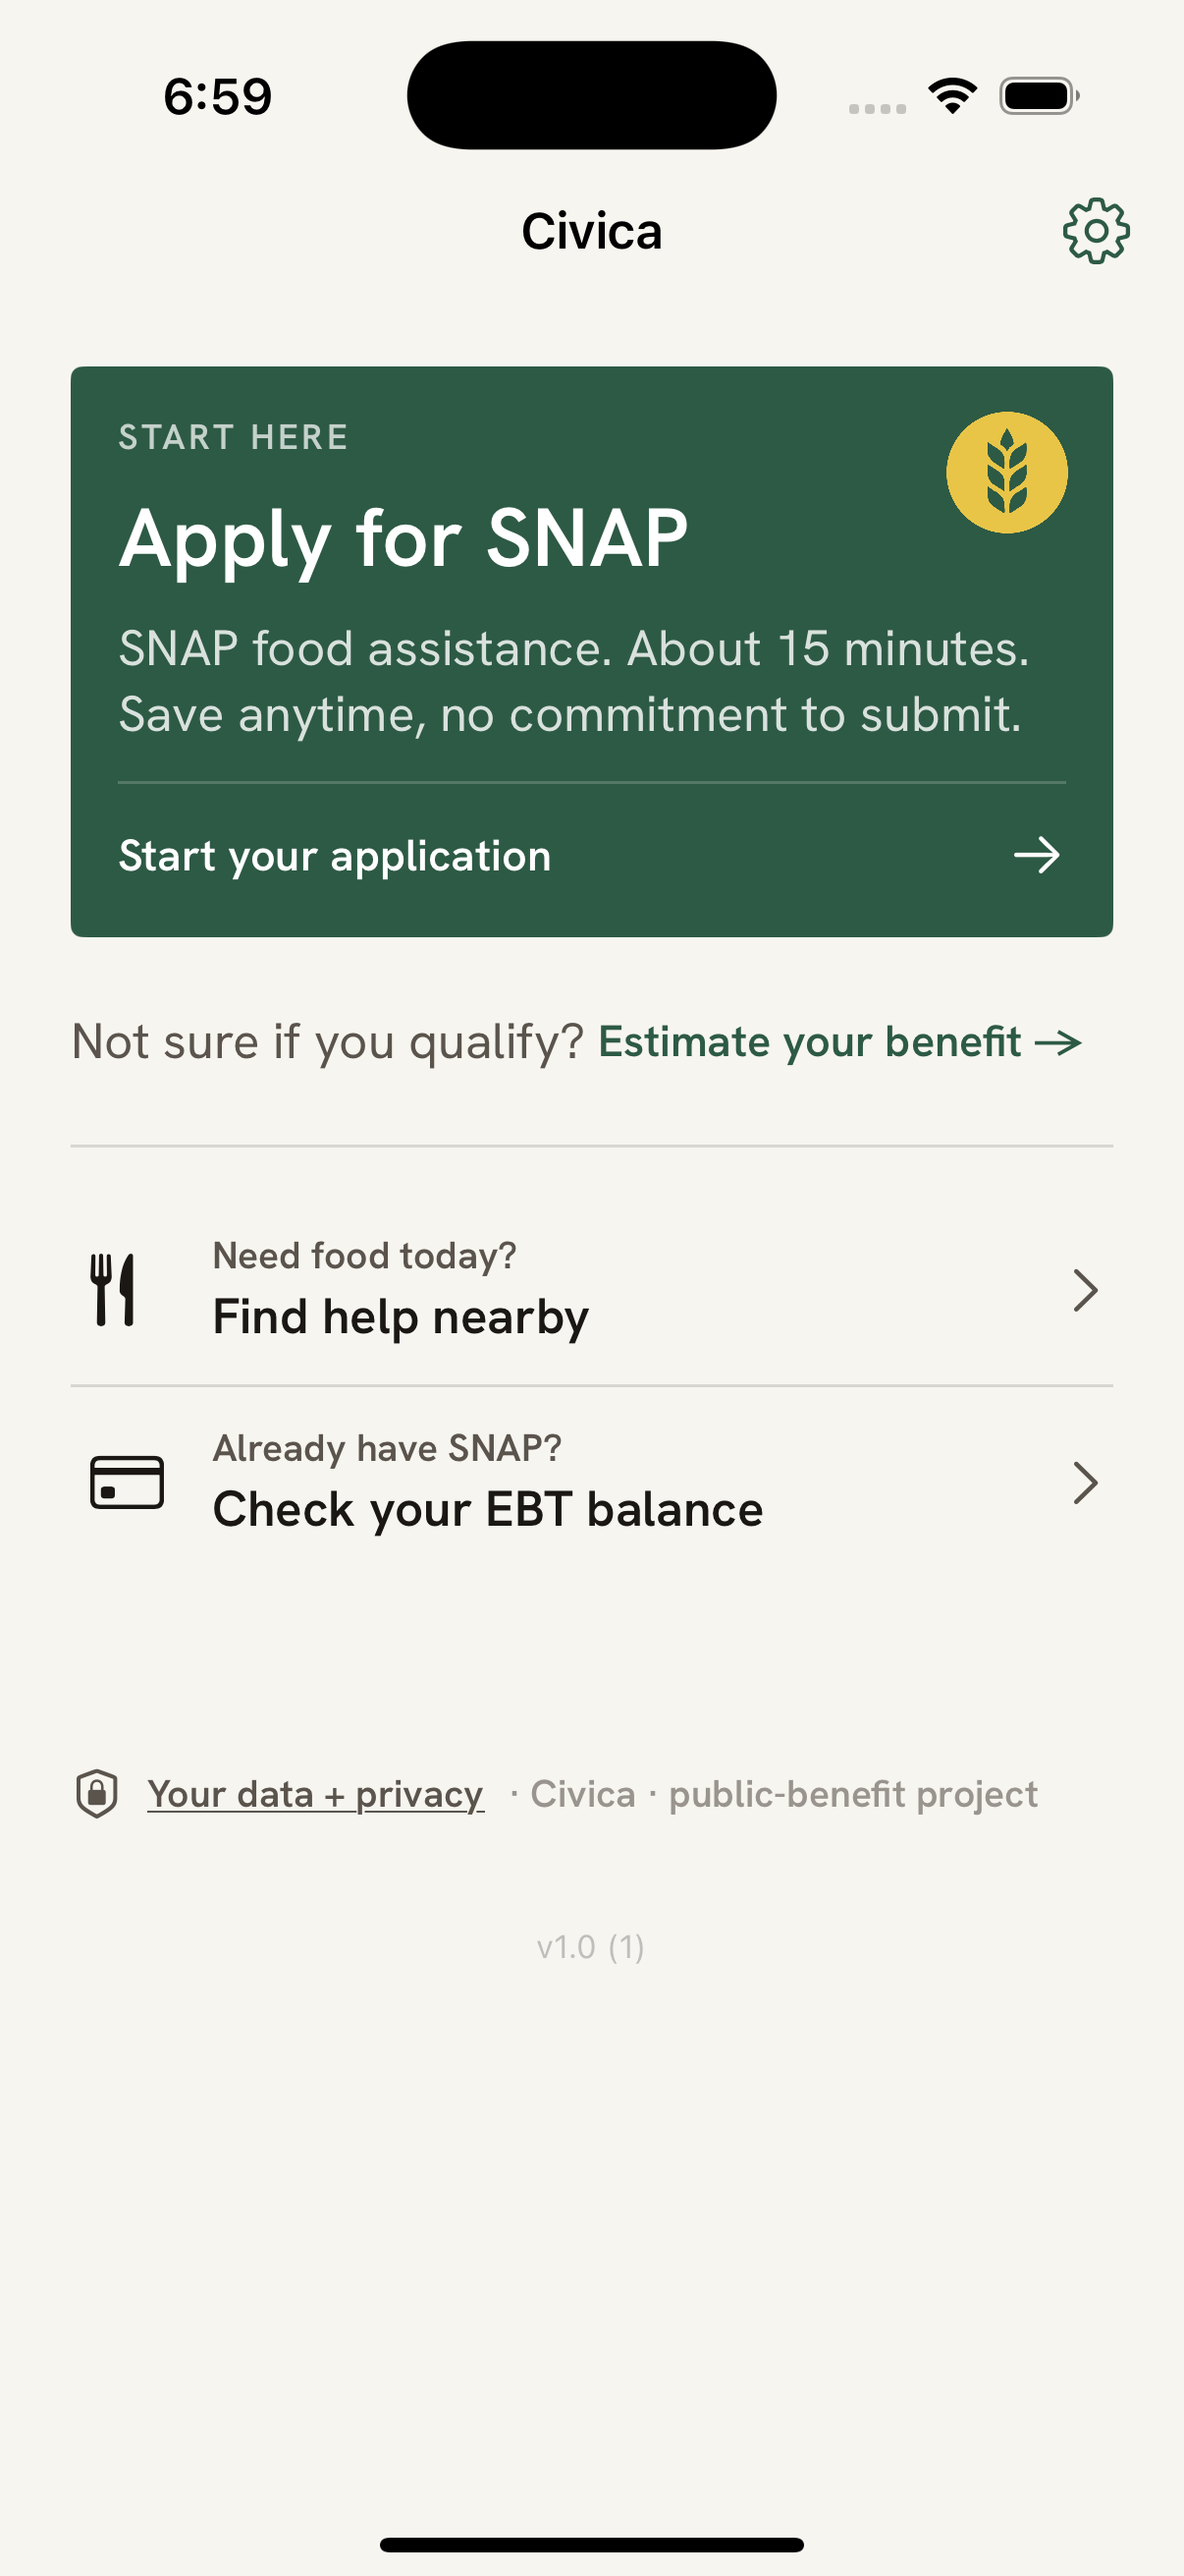
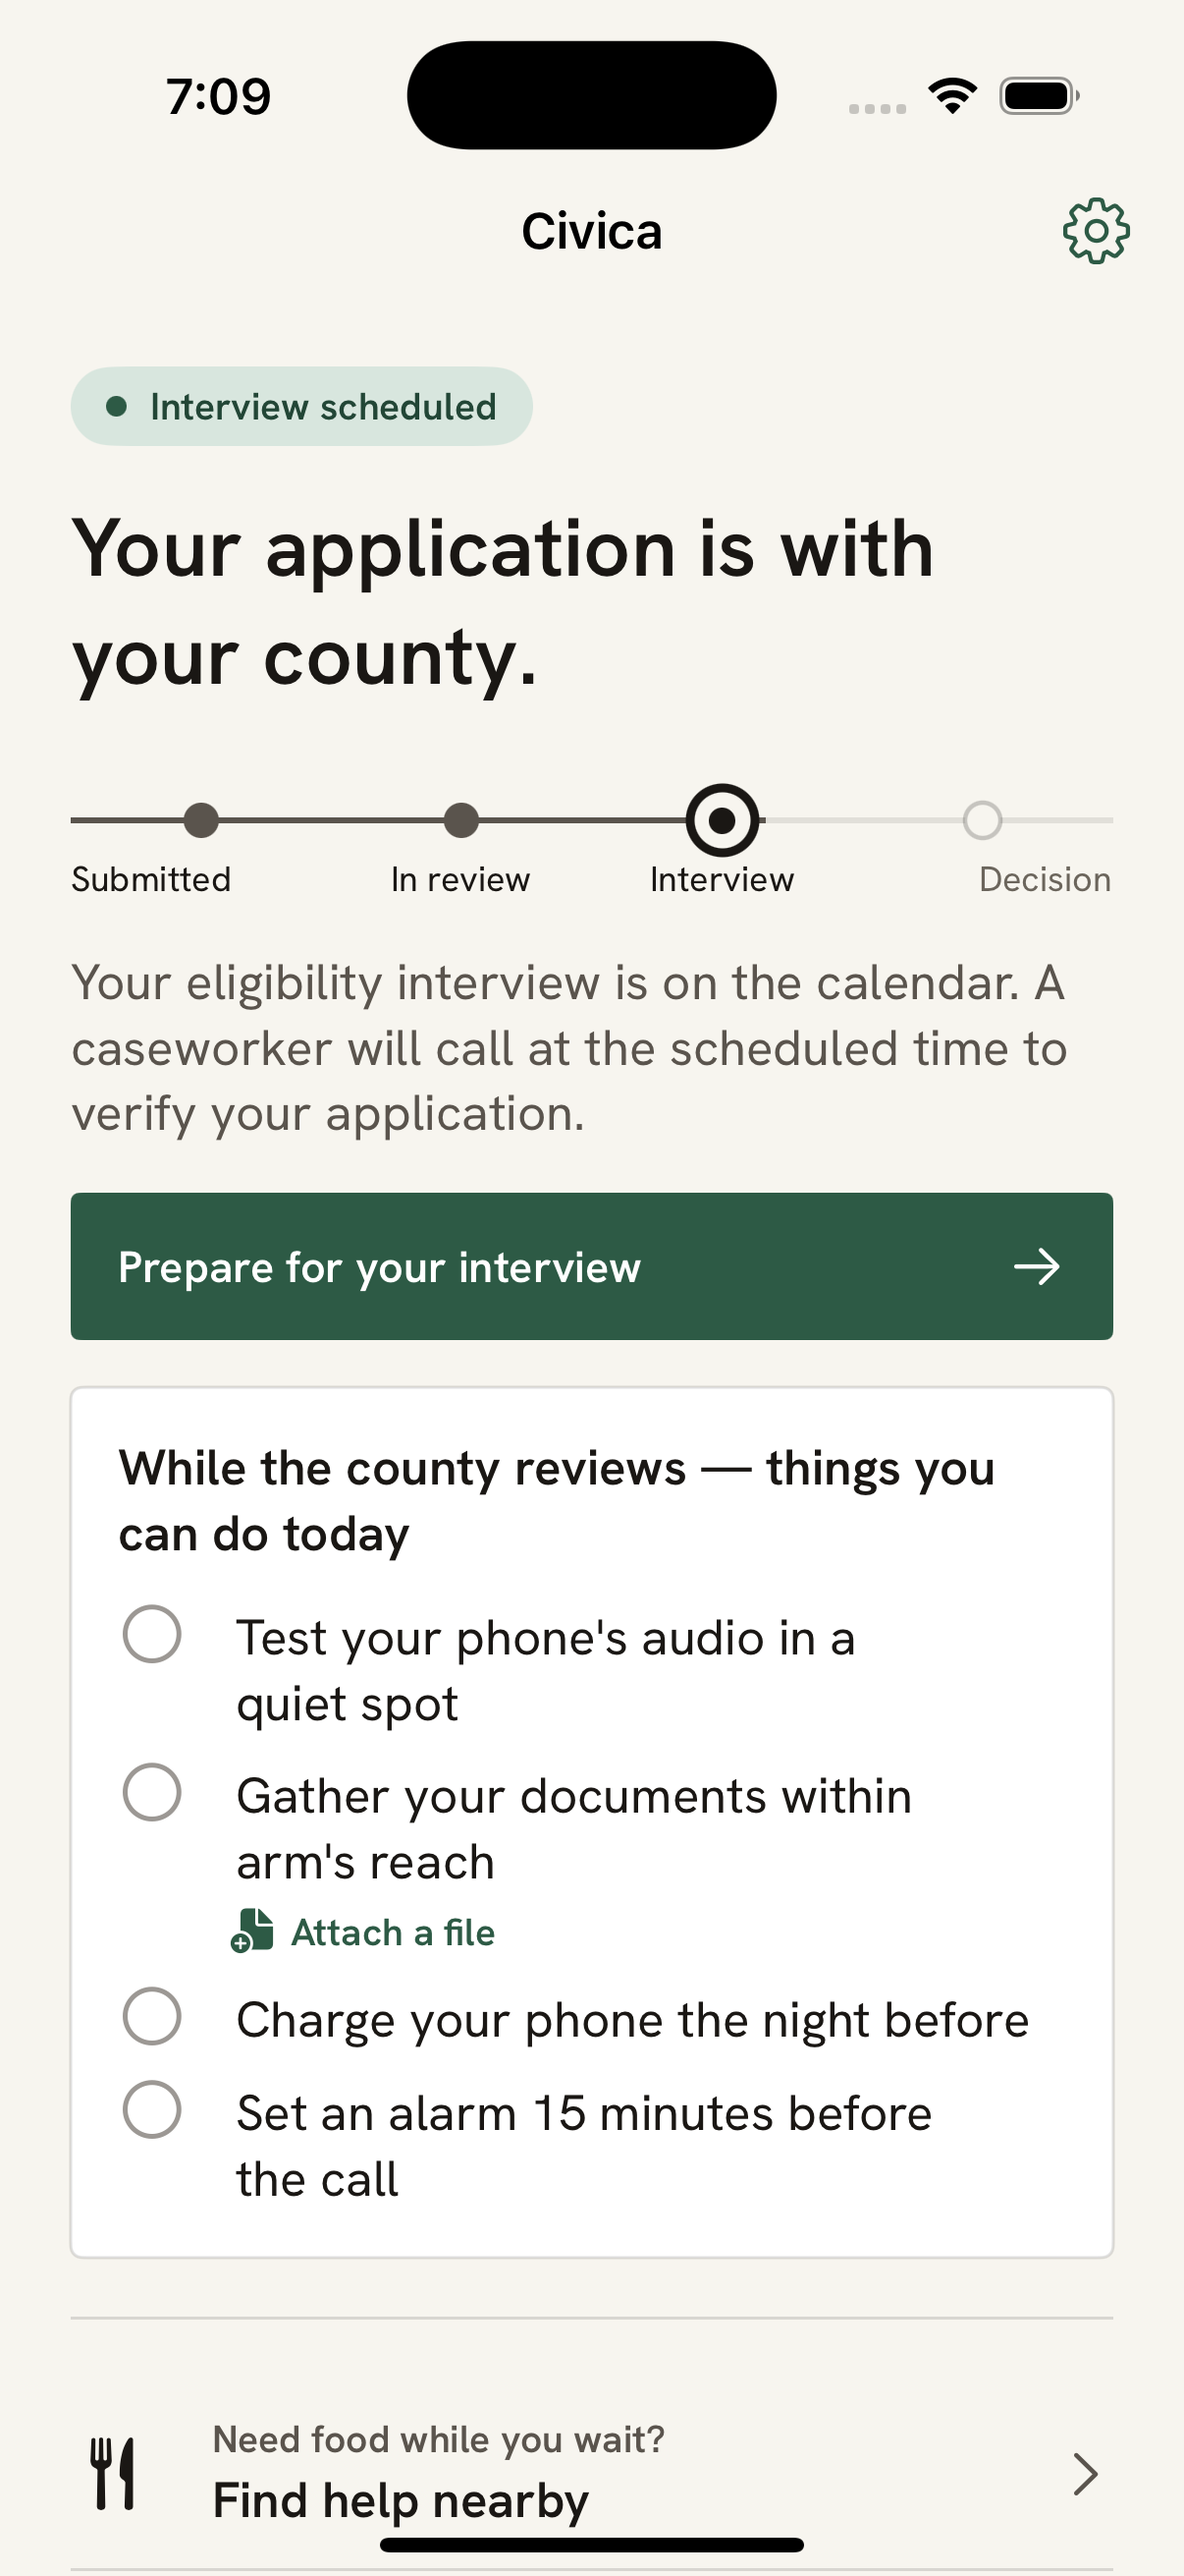
feat(web): interview screenshot, flat phone, SNAP estimator widget
- iOS screenshot: interviewScheduled state — 'Your application is with
  your county' + progress bar + interview prep checklist (more compelling
  than entry screen)
- Phone frame: 220px wide (was 252px), flat (no perspective/tilt),
  buttons flush #2e2e30 — no blur
- BenefitEstimator: inline hairline widget below CTA, household size
  1–7+ selector, FY26 max allotments, real-time pine-colored estimate
- welcome/page.tsx: imports + wires BenefitEstimator

diff --git a/apps/web/app/globals.css b/apps/web/app/globals.css
@@ -2961,55 +2961,46 @@ html {
 .iphone {
   position: relative;
   z-index: 1;
-  width: 252px;
+  width: 220px;
   flex-shrink: 0;
-  /* Titanium-like dark frame */
-  background: linear-gradient(160deg, #2c2c2e 0%, #1c1c1e 40%, #2a2a2c 100%);
-  border-radius: 50px;
-  padding: 14px 8px 10px;
-  /* Subtle marketing tilt — keep conservative so it stays in column */
-  transform: rotate(2deg) perspective(1200px) rotateY(-3deg);
-  transform-origin: center center;
+  background: #1c1c1e;
+  border-radius: 46px;
+  padding: 12px 7px 8px;
   box-shadow:
-    0 0 0 1px rgba(255,255,255,0.12),
-    inset 0 0 0 1px rgba(255,255,255,0.05),
-    0 48px 96px rgba(0,0,0,0.55),
-    0 16px 40px rgba(0,0,0,0.35),
-    0 4px 12px rgba(0,0,0,0.25);
+    0 0 0 1px rgba(255,255,255,0.10),
+    inset 0 0 0 1px rgba(255,255,255,0.04),
+    0 32px 64px rgba(0,0,0,0.50),
+    0 8px 24px rgba(0,0,0,0.28);
 }
 
-/* Side buttons */
+/* Side buttons — flush with frame, no blur-causing effects */
 .iphone__btn {
   position: absolute;
-  background: linear-gradient(to right, #3a3a3c, #2c2c2e);
+  background: #2e2e30;
   border-radius: 2px;
-  box-shadow: -1px 0 2px rgba(0,0,0,0.5), inset 1px 0 1px rgba(255,255,255,0.1);
 }
 
-/* Volume up */
 .iphone__btn--vol-up {
-  left: -3px;
-  top: 90px;
-  width: 3px;
-  height: 32px;
+  left: -4px;
+  top: 76px;
+  width: 4px;
+  height: 26px;
   border-radius: 2px 0 0 2px;
 }
 
-/* Volume down */
 .iphone__btn--vol-dn {
-  left: -3px;
-  top: 132px;
-  width: 3px;
-  height: 32px;
+  left: -4px;
+  top: 110px;
+  width: 4px;
+  height: 26px;
   border-radius: 2px 0 0 2px;
 }
 
-/* Power button */
 .iphone__btn--power {
-  right: -3px;
-  top: 110px;
-  width: 3px;
-  height: 56px;
+  right: -4px;
+  top: 92px;
+  width: 4px;
+  height: 44px;
   border-radius: 0 2px 2px 0;
   box-shadow: 1px 0 2px rgba(0,0,0,0.5), inset -1px 0 1px rgba(255,255,255,0.1);
 }
@@ -3238,6 +3229,73 @@ html {
   background: rgba(0,0,0,0.2);
   border-radius: 2px;
   margin: 10px auto 8px;
+}
+
+/* ---- Benefit estimator widget ---- */
+
+.benefit-est {
+  margin-top: var(--civica-space-lg);
+  padding-top: var(--civica-space-lg);
+  border-top: 1px solid var(--civica-hairline);
+}
+
+.benefit-est__row {
+  display: flex;
+  align-items: center;
+  gap: var(--civica-space-md);
+  flex-wrap: wrap;
+}
+
+.benefit-est__label {
+  font-size: 0.8125rem;
+  color: var(--civica-graphite);
+  font-weight: 500;
+  white-space: nowrap;
+}
+
+.benefit-est__sizes {
+  display: flex;
+  gap: 4px;
+  flex-wrap: wrap;
+}
+
+.benefit-est__size {
+  width: 32px;
+  height: 32px;
+  border-radius: var(--civica-radius-control);
+  border: 1px solid var(--civica-hairline);
+  background: transparent;
+  color: var(--civica-graphite);
+  font-family: inherit;
+  font-size: 0.8125rem;
+  font-weight: 500;
+  cursor: pointer;
+  transition: all 100ms ease;
+  display: flex;
+  align-items: center;
+  justify-content: center;
+}
+
+.benefit-est__size:hover {
+  border-color: var(--civica-pine);
+  color: var(--civica-pine);
+}
+
+.benefit-est__size--active {
+  background: var(--civica-pine);
+  border-color: var(--civica-pine);
+  color: #fff;
+}
+
+.benefit-est__result {
+  margin-top: var(--civica-space-sm);
+  font-size: 0.875rem;
+  color: var(--civica-graphite);
+}
+
+.benefit-est__amount {
+  color: var(--civica-pine);
+  font-weight: 700;
 }
 
 /* ---- pm: redesigned phone mockup (all values px for readability at 260px) ---- */

diff --git a/apps/web/components/BenefitEstimator.tsx b/apps/web/components/BenefitEstimator.tsx
@@ -1,0 +1,43 @@
+"use client";
+import { useState } from "react";
+
+// FNS FY26 maximum monthly allotments — 48 contiguous states + DC.
+// Source: same federal snapshot as eligibility-guide.ts MAX_BENEFIT_ONE_PERSON.
+const MAX_BENEFIT: Record<number, number> = {
+  1: 298, 2: 549, 3: 787, 4: 994, 5: 1182, 6: 1419, 7: 1569, 8: 1794,
+};
+
+export function BenefitEstimator() {
+  const [size, setSize] = useState(2);
+  const benefit = MAX_BENEFIT[Math.min(size, 8)];
+
+  return (
+    <div className="benefit-est">
+      <div className="benefit-est__row">
+        <span className="benefit-est__label">Household size</span>
+        <div className="benefit-est__sizes" role="group" aria-label="Select household size">
+          {[1, 2, 3, 4, 5, 6].map((n) => (
+            <button
+              key={n}
+              className={`benefit-est__size ${size === n ? "benefit-est__size--active" : ""}`}
+              onClick={() => setSize(n)}
+              aria-pressed={size === n}
+            >
+              {n}
+            </button>
+          ))}
+          <button
+            className={`benefit-est__size ${size >= 7 ? "benefit-est__size--active" : ""}`}
+            onClick={() => setSize(7)}
+            aria-pressed={size >= 7}
+          >
+            7+
+          </button>
+        </div>
+      </div>
+      <div className="benefit-est__result">
+        Up to <strong className="benefit-est__amount">${benefit.toLocaleString()}/mo</strong> estimated
+      </div>
+    </div>
+  );
+}

diff --git a/apps/web/app/welcome/page.tsx b/apps/web/app/welcome/page.tsx
@@ -4,6 +4,7 @@ import { useEffect, useState } from "react";
 import AppNav from "../../components/AppNav";
 import { LanguagePicker } from "../../components/LanguagePicker";
 import { PhoneMockup } from "../../components/PhoneMockup";
+import { BenefitEstimator } from "../../components/BenefitEstimator";
 const TESTFLIGHT_URL =
   process.env.NEXT_PUBLIC_TESTFLIGHT_URL ?? "https://testflight.apple.com/";
 import { STORAGE_KEY, LOCALES, type Locale } from "../i18n";
@@ -73,6 +74,7 @@ export default function WelcomePage() {
               <a href="/apply" className="btn btn--primary">{t.welcome_cta}</a>
               <a href="/sign-in" className="btn btn--ghost">{t.home_hero_secondary}</a>
             </div>
+            <BenefitEstimator />
           </div>
 
           <div className="hero__col hero__col--visual" aria-hidden="true">
